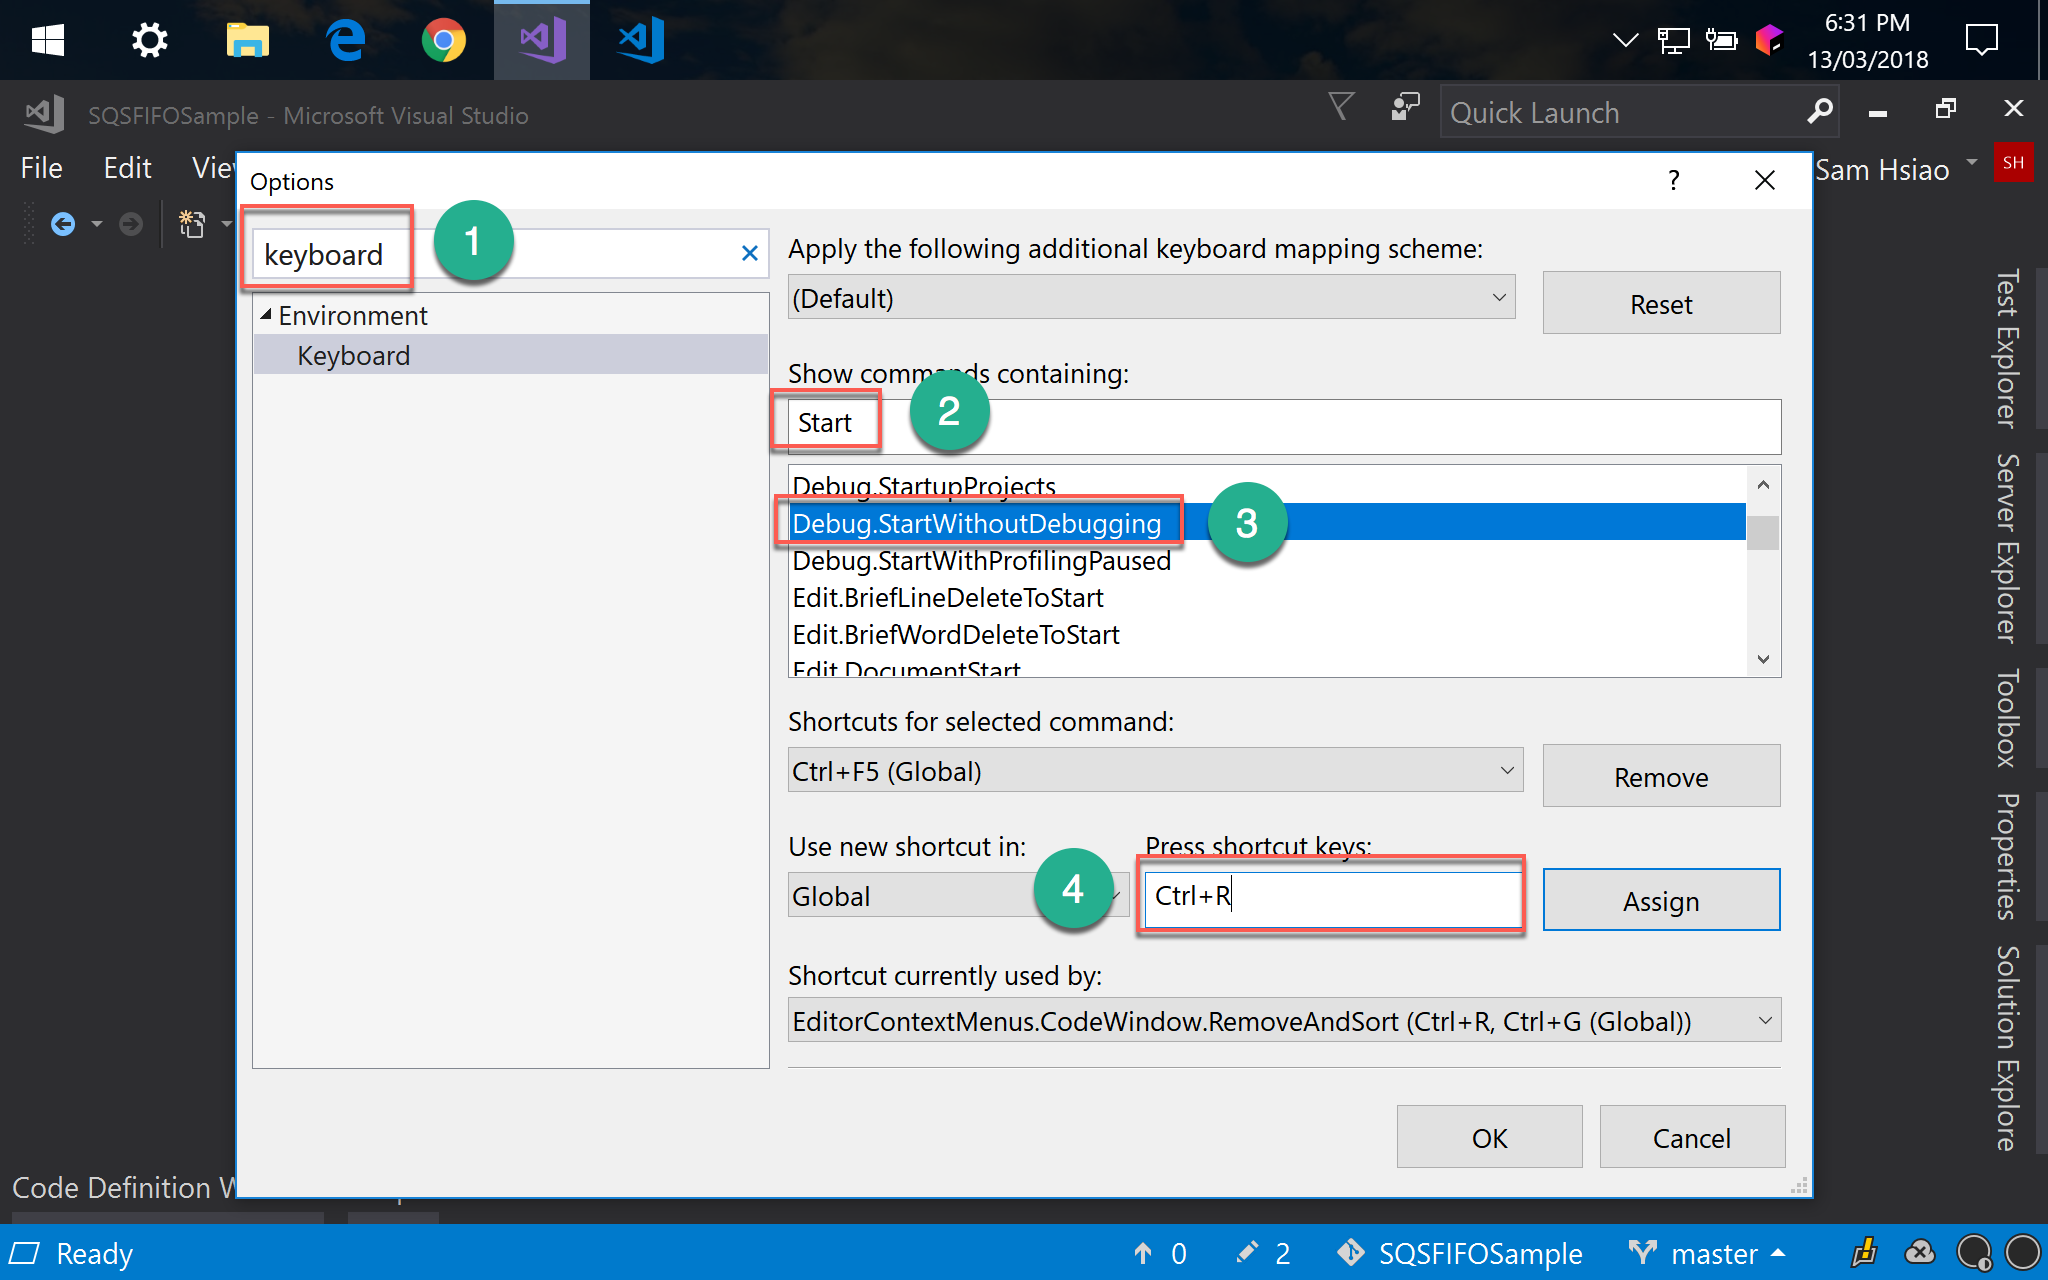
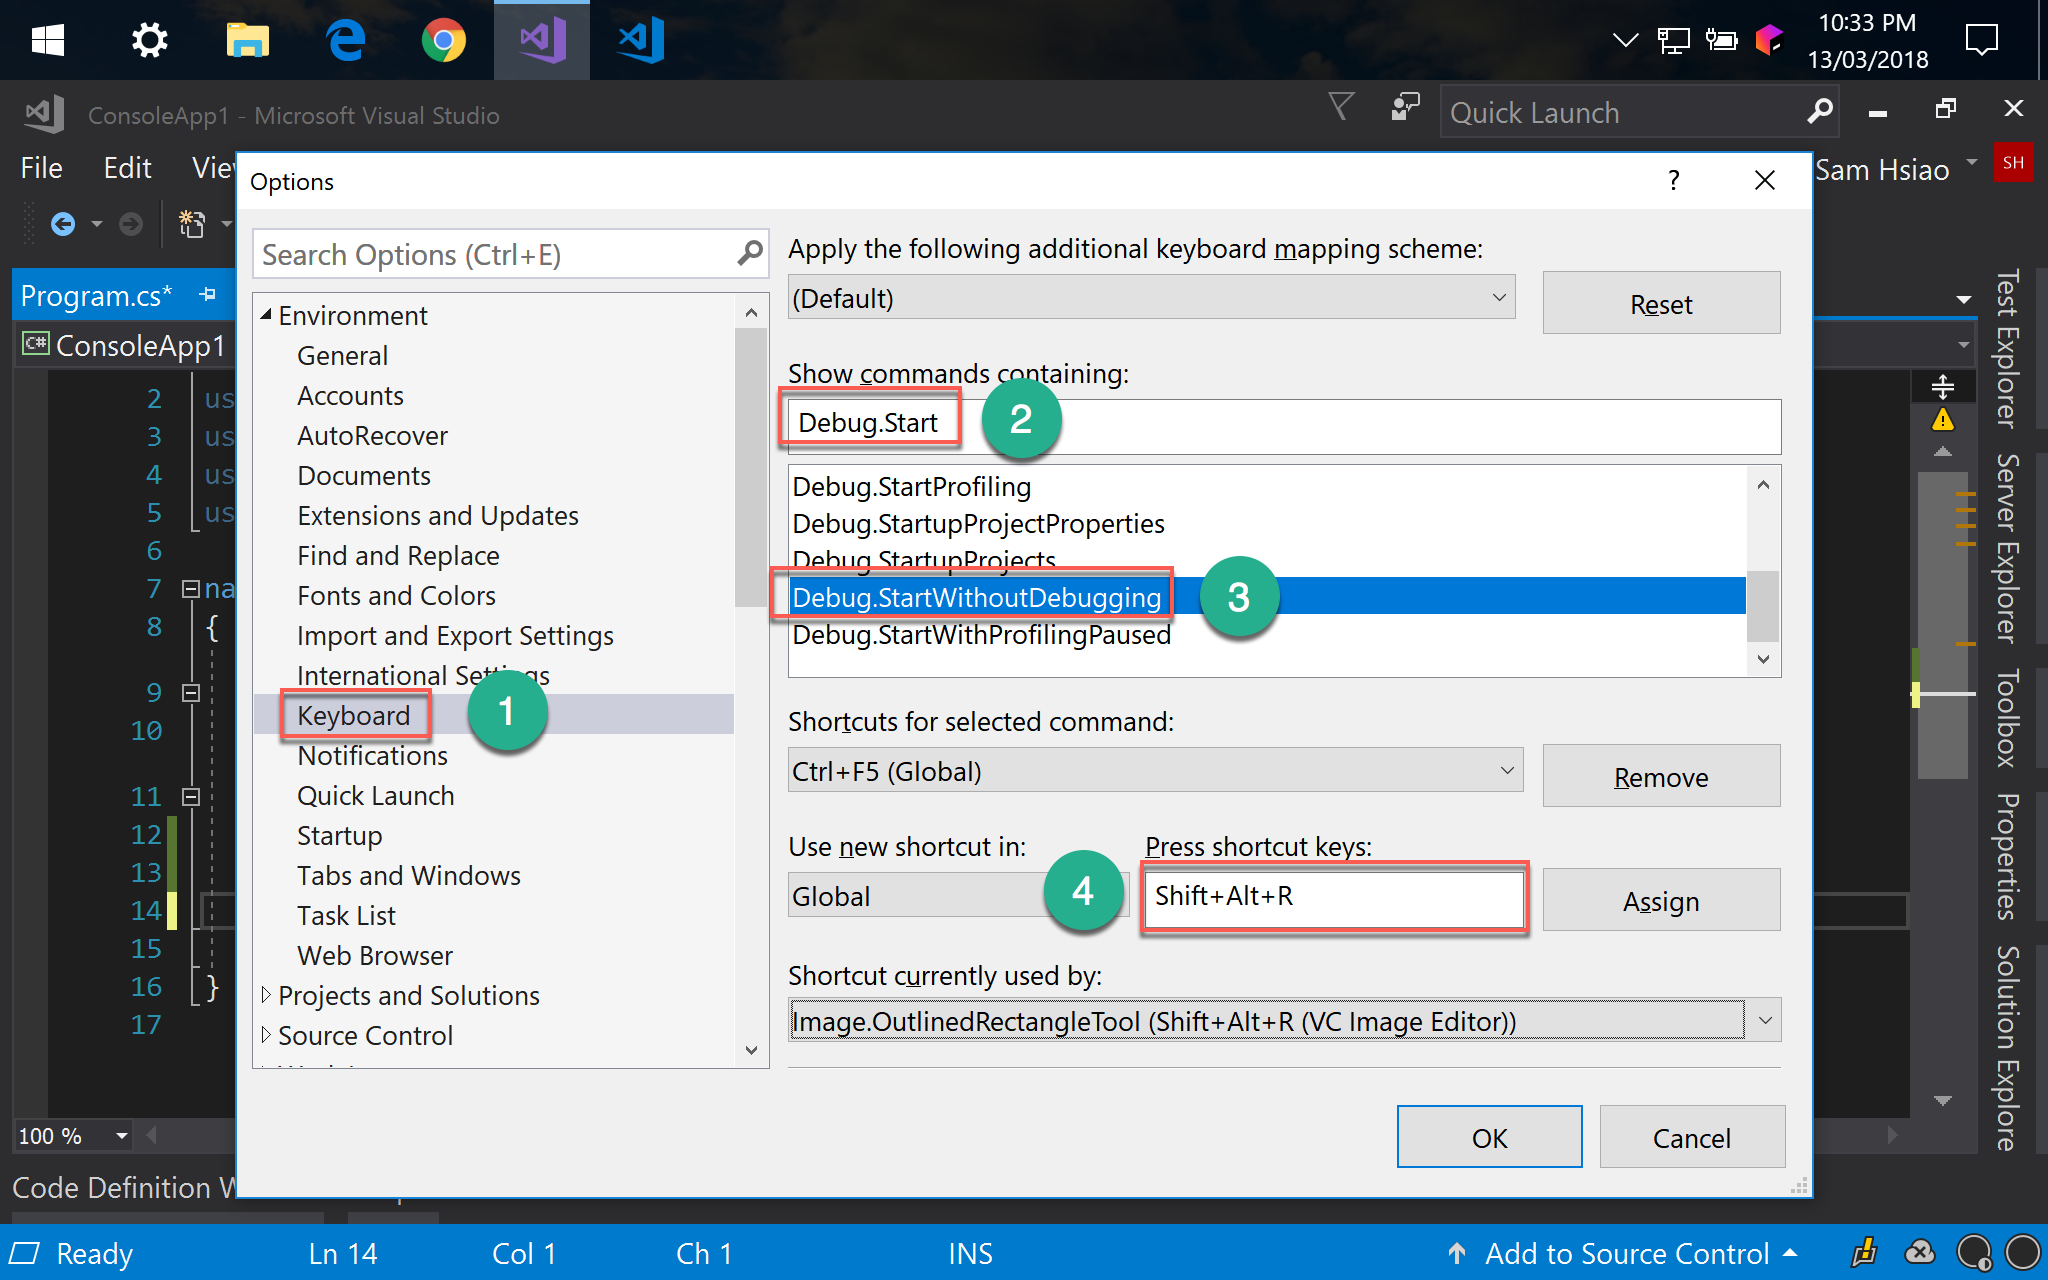
Site updated: 2018-03-13 22:49:42

diff --git a/vs/shortcut/index.html b/vs/shortcut/index.html
@@ -17,7 +17,7 @@
 <meta property="og:site_name" content="點燈坊">
 <meta property="og:description" content="重新設定 Parallel Desktop 與 Visual Studio 的 shortcut mapping">
 <meta property="og:image" content="http://oomusou.io/images/feature/logo.png">
-<meta property="og:updated_time" content="2018-03-13T11:12:31.060Z">
+<meta property="og:updated_time" content="2018-03-13T14:46:57.172Z">
 <meta name="twitter:card" content="summary">
 <meta name="twitter:title" content="如何在 macOS 輕鬆使用 Visual Studio 熱鍵?">
 <meta name="twitter:description" content="重新設定 Parallel Desktop 與 Visual Studio 的 shortcut mapping">
@@ -160,23 +160,25 @@
 <p>根據 JetBrains 習慣，<code>⌘ + ⌦</code> 相當於 Delete Line，這在 Visual Studio 對應的熱鍵為 <code>Ctrl + Shift + L</code>。</p>
 <h2 id="Start_Without_Debugging">Start Without Debugging</h2><hr>
 <p><code>Start without Debugging</code> 也是 Visual Studio 常用的熱鍵，但預設是 <code>Ctrl + F5</code>，對於 macOS 而言，一般我們不會用到 <code>F1 ~ F12</code>，而是將這些熱鍵讓給 Touch Bar，所以建議更改 Visual Studio 熱鍵。</p>
-<p>根據 JetBrains 習慣，<code>⌃ + R</code> 相當於 Start without Debugging，在此採用 JetBrains 的熱鍵。</p>
+<p>將 <code>⇧ + ⌥ + R</code> 設定為 Start without Debugging。</p>
 <p><img src="/images/vs/shortcut/shortcut010.png" alt="shortcut010"></p>
 <p><strong><em>Tools -&gt; Options</em></strong></p>
 <p><img src="/images/vs/shortcut/shortcut011.png" alt="shortcut011"></p>
 <ol>
-<li>輸入 <code>keyboard</code></li>
-<li><code>Show commands containing</code> 輸入 <code>Start</code></li>
+<li>選擇 <code>keyboard</code></li>
+<li><code>Show commands containing</code> 輸入 <code>Debug.Start</code></li>
 <li>選擇 <code>Debug.StartWithoutDebugging</code></li>
-<li>新增 <code>Ctrl + R</code> 熱鍵</li>
+<li>新增 <code>Shift + Alt + R</code> 熱鍵</li>
 </ol>
 <h2 id="Start_Debugging">Start Debugging</h2><hr>
 <p><code>Start Debugging</code> 也是 Visual Studio 常用的熱鍵，但預設是 <code>F5</code>，我們一樣希望 <code>F1 ~ F12</code> 讓給 Touch Bar，所以建議更改 Visual Studio 熱鍵。</p>
-<p>根據 JetBrains 習慣，<code>⌃ + Ｄ</code> 相當於 Start Debugging，在此採用 JetBrains 的熱鍵。</p>
+<p>將 <code>⇧ + ⌥ + D</code> 設定為 Start Debugging。</p>
 <p><img src="/images/vs/shortcut/shortcut012.png" alt="shortcut012"></p>
 <ol>
+<li>選擇 <code>keyboard</code></li>
+<li><code>Show commands containing</code> 輸入 <code>Debug.Start</code></li>
 <li>選擇 <code>Debug.Start</code></li>
-<li>新增 <code>Ctrl + D</code> 熱鍵</li>
+<li>新增 <code>Shift + Alt + D</code> 熱鍵</li>
 </ol>
 <h2 id="Conclusion">Conclusion</h2><hr>
 <ul>

diff --git a/hexo/md-overview/index.html b/hexo/md-overview/index.html
@@ -133,7 +133,7 @@
 <span class="xml"><span class="tag">&lt;<span class="title">http:</span>//<span class="attribute">oomusou.io</span>&gt;</span></span>
 [<span class="link_label">My Blog</span>](<span class="link_url">http://oomusou.io</span>)
 [<span class="link_label">My Email</span>](<span class="link_url">oomusou@gmail.com</span>)
-</code></pre><p><a href="&#109;&#97;&#x69;&#x6c;&#116;&#111;&#x3a;&#x6f;&#x6f;&#109;&#x75;&#115;&#x6f;&#117;&#x40;&#x67;&#x6d;&#x61;&#105;&#108;&#46;&#x63;&#x6f;&#x6d;">&#x6f;&#x6f;&#109;&#x75;&#115;&#x6f;&#117;&#x40;&#x67;&#x6d;&#x61;&#105;&#108;&#46;&#x63;&#x6f;&#x6d;</a><br><a href="http://oomusou.io">http://oomusou.io</a><br><a href="http://oomusou.io">My Blog</a><br><a href="oomusou@gmail.com">My Email</a></p>
+</code></pre><p><a href="&#x6d;&#97;&#x69;&#108;&#x74;&#x6f;&#x3a;&#x6f;&#111;&#109;&#x75;&#115;&#x6f;&#117;&#64;&#103;&#109;&#x61;&#105;&#x6c;&#46;&#99;&#x6f;&#109;">&#x6f;&#111;&#109;&#x75;&#115;&#x6f;&#117;&#64;&#103;&#109;&#x61;&#105;&#x6c;&#46;&#99;&#x6f;&#109;</a><br><a href="http://oomusou.io">http://oomusou.io</a><br><a href="http://oomusou.io">My Blog</a><br><a href="oomusou@gmail.com">My Email</a></p>
 <h2 id="圖片">圖片</h2><hr>
 <pre><code>![<span class="link_label">step1</span>](<span class="link_url">/images/md000.png</span>)
 </code></pre><p><img src="/images/hexo/md-overview/md000.png" alt="step1"></p>
